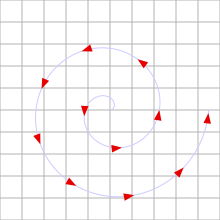
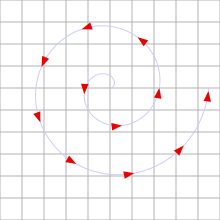
painters renamed
CV_2DCanvasFillPainter          -> CV_FillPainter
CV_Math2DCanvasPortraitPainter  -> CV_PortraitPainter
CV_2DCanvasLinePainter          -> CV_LinePainter
CV_2DCanvasLineDirectionPainter -> CV_DirectionPainter
CV_2DValueMarkPainter           -> CV_ValueMarkPainter
CV_2DAxisGridPainter            -> CV_GridPainter

diff --git a/docs/Painter.md b/docs/Painter.md
@@ -4,15 +4,15 @@ Painters have the ability to "draw"/"paint" something inside objects with math c
 
 ## Quick links
 
-| "area" painters                                                                              | curve  painters                                                                                | other painters                                                             |
-|:-------------------------------------------------------------------------------------------- |:---------------------------------------------------------------------------------------------- |:-------------------------------------------------------------------------- |
-| [`CV_2DCanvasFillPainter`](./Painter.md#user-content-cv_2dcanvasfillpainter)                 | [`CV_2DCanvasLinePainter`](./Painter.md#user-content-cv_2dcanvaslinepainter)                   | [`CV_2DValueMarkPainter`](./Painter.md#user-content-cv_2dvaluemarkpainter) |
-| [`CV_Math2DCanvasPortraitPainter`](./Painter.md#user-content-cv_math2dcanvasportraitpainter) | [`CV_2DCanvasLineDirectionPainter`](./Painter.md#user-content-cv_2dcanvaslinedirectionpainter) | [`CV_2DAxisGridPainter`](./Painter.md#user-content-cv_2daxisgridpainter)   |
+| "area" painters                                                                                                                                | curve  painters                                                                                                                        | other painters                                                                                                                           |
+|:---------------------------------------------------------------------------------------------------------------------------------------------- |:-------------------------------------------------------------------------------------------------------------------------------------- |:---------------------------------------------------------------------------------------------------------------------------------------- |
+| ![./Painter_fillpainter_icon.png](./Painter_fillpainter_icon.png) [`CV_FillPainter`](./Painter.md#user-content-cv_fillpainter)                 | ![./Painter_linepainter_icon.png](./Painter_linepainter_icon.png) [`CV_LinePainter`](./Painter.md#user-content-cv_linepainter)         | ![./Painter_markpainter_icon.png](./Painter_markpainter_icon.png) [`CV_ValueMarkPainter`](./Painter.md#user-content-cv_valuemarkpainter) |
+| ![./Painter_portraitpainter_icon.png](./Painter_portraitpainter_icon.png) [`CV_PortraitPainter`](./Painter.md#user-content-cv_portraitpainter) | ![./Painter_dirpainter_icon.png](./Painter_dirpainter_icon.png) [`CV_DirectionPainter`](./Painter.md#user-content-cv_directionpainter) | ![./Painter_gridpainter_icon.png](./Painter_gridpainter_icon.png) [`CV_GridPainter`](./Painter.md#user-content-cv_gridpainter)           |
 
-## `CV_2DCanvasFillPainter`
+## `CV_FillPainter`
 
 ```
-CV_2DCanvasFillPainter <: CV_2DCanvasPainter
+CV_FillPainter <: CV_2DCanvasPainter
     no fields
 ```
 
@@ -20,7 +20,7 @@ A painter filling the complete canvas.
 
 A `CV_ContextStyle` is typically used to govern the appearance of the filling operation.
 
-## Example for `CV_2DCanvasFillPainter`
+## Example for `CV_FillPainter`
 
 ![./Painter_fillpainter.png](./Painter_fillpainter.png)
 
@@ -28,7 +28,7 @@ A `CV_ContextStyle` is typically used to govern the appearance of the filling op
 function example_fill_painter()
     math_canvas = CV_Math2DCanvas(0.0 + 1.0im, 1.0 + 0.0im, 220)
 
-    fill_painter = CV_2DCanvasFillPainter()
+    fill_painter = CV_FillPainter()
     styled_painter = cv_color(0.7, 0.4, 0.4) ↦ fill_painter
     
     cv_create_context(math_canvas) do canvas_context
@@ -39,10 +39,10 @@ function example_fill_painter()
 end
 ```
 
-## `CV_2DValueMarkPainter`
+## `CV_ValueMarkPainter`
 
 ```
-CV_2DValueMarkPainter{N<:Number}
+CV_ValueMarkPainter{N<:Number}
     where     CV_TranslateByOffset{N}
     start     Float64
     len       Float64
@@ -53,7 +53,7 @@ A painter drawing a vertical line-segment `(where, start)` to `(where, start + l
 
 This painter is typically used for Sliders to mark the current slider position.
 
-## Example for `CV_2DValueMarkPainter`
+## Example for `CV_ValueMarkPainter`
 
 ![./Painter_markpainter.png](./Painter_markpainter.png)
 
@@ -64,11 +64,11 @@ function example_mark_painter()
     x_pos, y_pos = CV_TranslateByOffset(Float64), CV_TranslateByOffset(Float64)
     x_pos.value, y_pos.value = 0.7, 0.3
 
-    bg_fill = cv_white ↦ CV_2DCanvasFillPainter()  # for background
+    bg_fill = cv_white ↦ CV_FillPainter()  # for background
     grid_style = cv_color(0.8, 0.8, 0.8) → cv_linewidth(1)
-    grid = grid_style ↦ CV_2DAxisGridPainter(0.0:0.1:1.0, 0.0:0.1:1.0)
-    horiz_mark = CV_2DValueMarkPainter(x_pos, 0.2, 0.1, true)
-    vert_mark = CV_2DValueMarkPainter(y_pos, 0.2, 0.1, false)
+    grid = grid_style ↦ CV_GridPainter(0.0:0.1:1.0, 0.0:0.1:1.0)
+    horiz_mark = CV_ValueMarkPainter(x_pos, 0.5, 0.1, true)
+    vert_mark = CV_ValueMarkPainter(y_pos, 0.2, 0.1, false)
 
     h_painter = (cv_color(1,0,0) → cv_linewidth(2)) ↦ horiz_mark
     v_painter = (cv_color(0,1,0) → cv_linewidth(2)) ↦ vert_mark
@@ -84,17 +84,17 @@ function example_mark_painter()
 end
 ```
 
-## `CV_2DAxisGridPainter`
+## `CV_GridPainter`
 
 ```
-CV_2DAxisGridPainter <: CV_2DCanvasPainter
+CV_GridPainter <: CV_2DCanvasPainter
     reals   Vector{Float64}
     imags   Vector{Float64}
 ```
 
 A painter for drawing horizontal and vertical grid lines.
 
-`CV_2DAxisGridPainter(reals, imags)`
+`CV_GridPainter(reals, imags)`
 
 ```
 reals    Union{NTuple{N, Real}, AbstractVector{Float64}}
@@ -103,7 +103,7 @@ imags    Union{NTuple{M, Real}, AbstractVector{Float64}}
 
 construct grid for given real- and imag-values.
 
-## Example for `CV_2DAxisGridPainter`
+## Example for `CV_GridPainter`
 
 ![./Painter_gridpainter.png](./Painter_gridpainter.png)
 
@@ -111,13 +111,13 @@ construct grid for given real- and imag-values.
 function example_grid_painter()
     math_canvas = CV_Math2DCanvas(0.0 + 1.0im, 1.0 + 0.0im, 220)
 
-    bg_fill = cv_white ↦ CV_2DCanvasFillPainter()  # for background
+    bg_fill = cv_white ↦ CV_FillPainter()  # for background
 
     style1 = cv_color(0.7, 0.3, 0.3) → cv_linewidth(2)
-    grid1 = style1 ↦ CV_2DAxisGridPainter(0.0:0.2:1.0, 0.0:0.2:1.0)
+    grid1 = style1 ↦ CV_GridPainter(0.0:0.2:1.0, 0.0:0.2:1.0)
 
     style2 = cv_color(0.3, 0.7, 0.3) → cv_linewidth(1)
-    grid2 = style2 ↦ CV_2DAxisGridPainter(0.1:0.2:0.9, 0.1:0.2:0.9)
+    grid2 = style2 ↦ CV_GridPainter(0.1:0.2:0.9, 0.1:0.2:0.9)
 
     cv_create_context(math_canvas) do canvas_context
         cv_paint(canvas_context, bg_fill)
@@ -129,10 +129,10 @@ function example_grid_painter()
 end
 ```
 
-## `CV_2DCanvasLinePainter`
+## `CV_LinePainter`
 
 ```
-CV_2DCanvasLinePainter{dtrafoT, strafoT, scutT} <: CV_2DCanvasPainter
+CV_LinePainter{dtrafoT, strafoT, scutT} <: CV_2DCanvasPainter
     dst_trafo           dtrafoT
     segments            CV_LineSegments
     auto_close_path     Bool
@@ -147,7 +147,7 @@ All the points of the line segments are transformed according to `dst_trafo`.
 The preimage of the line segments are transformed by `src_trafo` (unless `src_trafo === nothing`) and afterwards they are checked with `src_cut_test` (unless `src_cut_test === nothing`) if the line-segment needs to be "cut" (i.e. the line is interrupted there).
 
 ```
-CV_2DCanvasLinePainter(dst_trafo, segments, auto_close_path=false)
+CV_LinePainter(dst_trafo, segments, auto_close_path=false)
     dst_trafo
     segments           CV_LineSegments
     auto_close_path    Bool
@@ -156,29 +156,29 @@ CV_2DCanvasLinePainter(dst_trafo, segments, auto_close_path=false)
 with `src_trafo` and `src_cut_test` both `nothing`.
 
 ```
-CV_2DCanvasLinePainter(segments, auto_close_path=false)
+CV_LinePainter(segments, auto_close_path=false)
     segments           CV_LineSegments
     auto_close_path    Bool
 ```
 
 `dst_trafo = identity` and with `src_trafo` and `src_cut_test` both `nothing`.
 
-## Example for `CV_2DCanvasLinePainter`
+## Example for `CV_LinePainter`
 
 ![./Painter_linepainter.png](./Painter_linepainter.png)
 
 ```julia
 function example_line_painter()
     math_canvas = CV_Math2DCanvas(-1.0 + 1.0im, 1.0 + -1.0im, 110)
-    bg_fill = cv_white ↦ CV_2DCanvasFillPainter()  # for background
+    bg_fill = cv_white ↦ CV_FillPainter()  # for background
 
     grid_style = cv_color(0.7, 0.7, 0.7) → cv_linewidth(1)
-    grid = grid_style ↦ CV_2DAxisGridPainter(-1.0:0.2:1.0, -1.0:0.2:1.0)
+    grid = grid_style ↦ CV_GridPainter(-1.0:0.2:1.0, -1.0:0.2:1.0)
 
-    segment = [exp(ϕ*2im)*ϕ/7 for ϕ in LinRange(0, 2*π, 200)]
+    segment = [0.2im + exp(ϕ*2im)*ϕ/7 for ϕ in LinRange(0, 2*π, 200)]
     style = cv_color(0, 0, 1) → cv_linewidth(2)
 
-    seg_painter = style ↦ CV_2DCanvasLinePainter([segment])
+    seg_painter = style ↦ CV_LinePainter([segment])
 
     cv_create_context(math_canvas) do canvas_context
         cv_paint(canvas_context, bg_fill)
@@ -190,10 +190,10 @@ function example_line_painter()
 end
 ```
 
-## `CV_2DCanvasLineDirectionPainter`
+## `CV_DirectionPainter`
 
 ```
-CV_2DCanvasLineDirectionPainter{trafoT} <: CV_2DCanvasPainter
+CV_DirectionPainter{trafoT} <: CV_2DCanvasPainter
     trafo              trafoT
     segments           CV_LineSegments
     auto_close_path    Bool
@@ -205,7 +205,7 @@ CV_2DCanvasLineDirectionPainter{trafoT} <: CV_2DCanvasPainter
 Paint triangles (along a curve) to indicate the direction of a curve.
 
 ```
-CV_2DCanvasLineDirectionPainter(trafo, segments, auto_close_path=false; 
+CV_DirectionPainter(trafo, segments, auto_close_path=false; 
         every_len=2.0, pre_gap=0.0, arrow=0.3*exp(1im*π*8/9)) 
     trafo   
     segments          CV_LineSegments
@@ -233,24 +233,24 @@ The `arrow` parameter describes the shape of the triangle:
 
 Moves along the curve. Places after `every_len` a arrow/triangle showing in the direction of the curve. `pre_gap` can be used to prohibit a triangle at the beginning (with length `pre_gap`).
 
-## Example for `CV_2DCanvasLineDirectionPainter`
+## Example for `CV_DirectionPainter`
 
 ![./Painter_dirpainter.png](./Painter_dirpainter.png)
 
 ```julia
 function example_dir_painter()
     math_canvas = CV_Math2DCanvas(-1.0 + 1.0im, 1.0 + -1.0im, 110)
-    bg_fill = cv_white ↦ CV_2DCanvasFillPainter()  # for background
+    bg_fill = cv_white ↦ CV_FillPainter()  # for background
 
     grid_style = cv_color(0.7, 0.7, 0.7) → cv_linewidth(1)
-    grid = grid_style ↦ CV_2DAxisGridPainter(-1.0:0.2:1.0, -1.0:0.2:1.0)
+    grid = grid_style ↦ CV_GridPainter(-1.0:0.2:1.0, -1.0:0.2:1.0)
 
-    segment = [exp(ϕ*2im)*ϕ/7 for ϕ in LinRange(0, 2*π, 200)]
+    segment = [0.2im + exp(ϕ*2im)*ϕ/7 for ϕ in LinRange(0, 2*π, 200)]
     style = cv_color(0.8, 0.8, 1) → cv_linewidth(1)  # light blue for curve
-    seg_painter = style ↦ CV_2DCanvasLinePainter([segment])
+    seg_painter = style ↦ CV_LinePainter([segment])
 
     dir_style = cv_color(0.9, 0, 0)
-    dir_painter = dir_style ↦ CV_2DCanvasLineDirectionPainter(identity,
+    dir_painter = dir_style ↦ CV_DirectionPainter(identity,
         [segment]; every_len=0.5, arrow=0.1*exp(1im*π*8/9))
 
     cv_create_context(math_canvas) do canvas_context
@@ -264,10 +264,10 @@ function example_dir_painter()
 end
 ```
 
-## `CV_Math2DCanvasPortraitPainter`
+## `CV_PortraitPainter`
 
 ```
-CV_Math2DCanvasPortraitPainter{CS}
+CV_PortraitPainter{CS}
     trafo           trafoT
     colorscheme     CS
     cache_flag      Bool
@@ -278,7 +278,7 @@ Fill math coordinate system with phase portrait.
 
 For `colorscheme`, please see the package `ComplexPortraits`.
 
-## Example for `CV_Math2DCanvasPortraitPainter`
+## Example for `CV_PortraitPainter`
 
 ![./Painter_portraitpainter.png](./Painter_portraitpainter.png)
 
@@ -287,7 +287,7 @@ function example_portrait_painter()
     math_canvas = CV_Math2DCanvas(0.0 + 1.0im, 1.0 + 0.0im, 220)
 
     trafo = z -> (z - 0.6 - 0.2im)^2 + 0.15*exp(z)
-    painter = CV_Math2DCanvasPortraitPainter(trafo)
+    painter = CV_PortraitPainter(trafo)
 
     cv_create_context(math_canvas) do canvas_context
         cv_paint(canvas_context, painter)

diff --git a/docs/README.md b/docs/README.md
@@ -11,13 +11,26 @@
 
   * [`cv_create_2daxis_canvas`](./Axis.md#user-content-cv_create_2daxis_canvas)
 
+## D
+
+  * [`CV_DirectionPainter`](./Painter.md#user-content-cv_directionpainter)
+
 ## F
 
+  * [`CV_FillPainter`](./Painter.md#user-content-cv_fillpainter)
   * [`cv_format_ticks`](./Axis.md#user-content-cv_format_ticks)
 
-## M
+## G
 
-  * [`CV_Math2DCanvasPortraitPainter`](./Painter.md#user-content-cv_math2dcanvasportraitpainter)
+  * [`CV_GridPainter`](./Painter.md#user-content-cv_gridpainter)
+
+## L
+
+  * [`CV_LinePainter`](./Painter.md#user-content-cv_linepainter)
+
+## P
+
+  * [`CV_PortraitPainter`](./Painter.md#user-content-cv_portraitpainter)
 
 ## R
 
@@ -29,13 +42,12 @@
   * [`CV_TickLabelAppearance`](./Axis.md#user-content-cv_ticklabelappearance)
   * [`cv_ticks_labels`](./Axis.md#user-content-cv_ticks_labels)
 
+## V
+
+  * [`CV_ValueMarkPainter`](./Painter.md#user-content-cv_valuemarkpainter)
+
 ## …
 
-  * [`CV_2DAxisGridPainter`](./Painter.md#user-content-cv_2daxisgridpainter)
-  * [`CV_2DCanvasFillPainter`](./Painter.md#user-content-cv_2dcanvasfillpainter)
-  * [`CV_2DCanvasLineDirectionPainter`](./Painter.md#user-content-cv_2dcanvaslinedirectionpainter)
-  * [`CV_2DCanvasLinePainter`](./Painter.md#user-content-cv_2dcanvaslinepainter)
-  * [`CV_2DValueMarkPainter`](./Painter.md#user-content-cv_2dvaluemarkpainter)
   * [`⇒`](./Axis.md#user-content-)
 
 

diff --git a/docs/LayoutTutorial.md b/docs/LayoutTutorial.md
@@ -131,7 +131,7 @@ function other_anchors_axis()
     math_canvas_l = cv_add_canvas!(layout, math_canvas,
         cv_anchor(math_canvas, :center), (0, 0))
     cv_create_context(math_canvas) do con_math # just to fill it blue
-        cv_paint(con_math, cv_color(0,0,1) ↦ CV_2DCanvasFillPainter())
+        cv_paint(con_math, cv_color(0,0,1) ↦ CV_FillPainter())
     end
 
     rulers = (CV_Ruler(CV_TickLabel(0.0, "left"),
